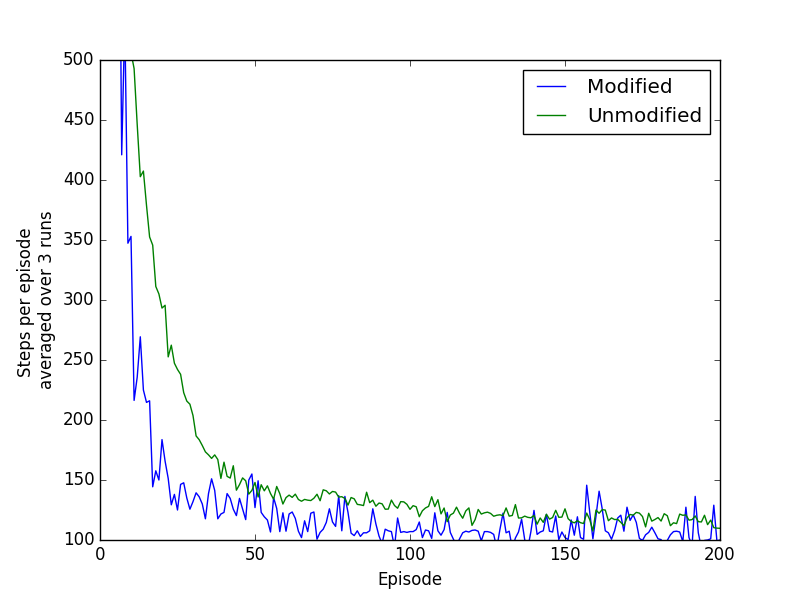
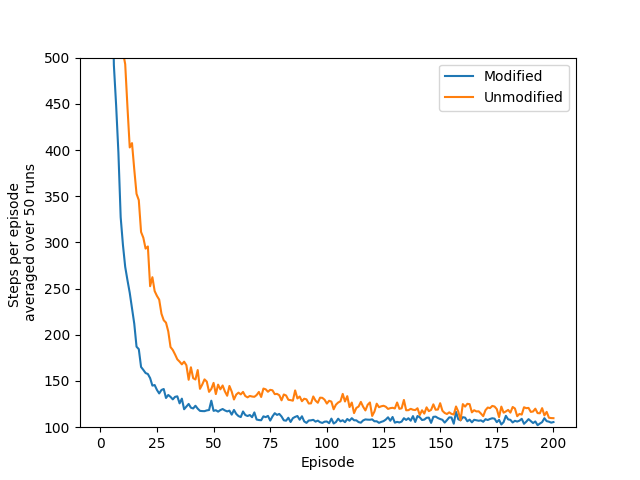
Finished Bonus

diff --git a/assignment7/bonus/sarsa_lambda_agent_modified.py b/assignment7/bonus/sarsa_lambda_agent_modified.py
@@ -22,7 +22,7 @@ values = None
 Z = None
 
 tilings = 8 
-alpha = 0.5/tilings
+alpha = 0.1/tilings
 gamma = 1.0
 lambdah = 0.9
 epsilon = 0.0

diff --git a/assignment7/README.md b/assignment7/README.md
@@ -34,4 +34,28 @@ python plot.py # Write learning curve to bonus.png
 ```
 ![Bonus](bonus/bonus.png)
 
+Optionally, if Part 1 has been calculated as above, you can see the Modified vs Unmodified learning graphs simultaneously with the following:
+```python
+python plot2.py
+```
 ![Bonus with Unmodified](bonus/bonus2.png)
+
+### Results
+```
+Unmodified
+Mean: -39984.14
+Std: 711.509775337
+Error: 100.622677404
+...
+Modified
+Mean: -30511.1
+Std: 1288.71249315
+Error: 182.251468581
+...
+Did it Change?
+Improvement: 51.9778527644
+```
+
+### Modifications
+
+The only modifications are that I implemented Accumulating Traces in the modified agent. Modified and Unmodified used 50 runs. Not only do we see faster learning off the start, Accumulating Traces generally takes fewer steps to get to the goal all the way up to 200 episodes.
